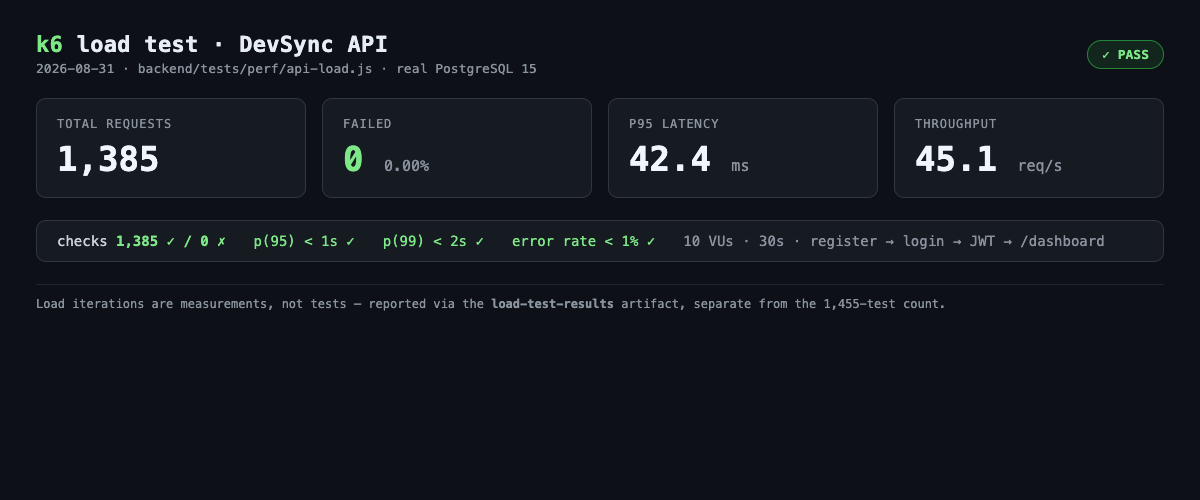
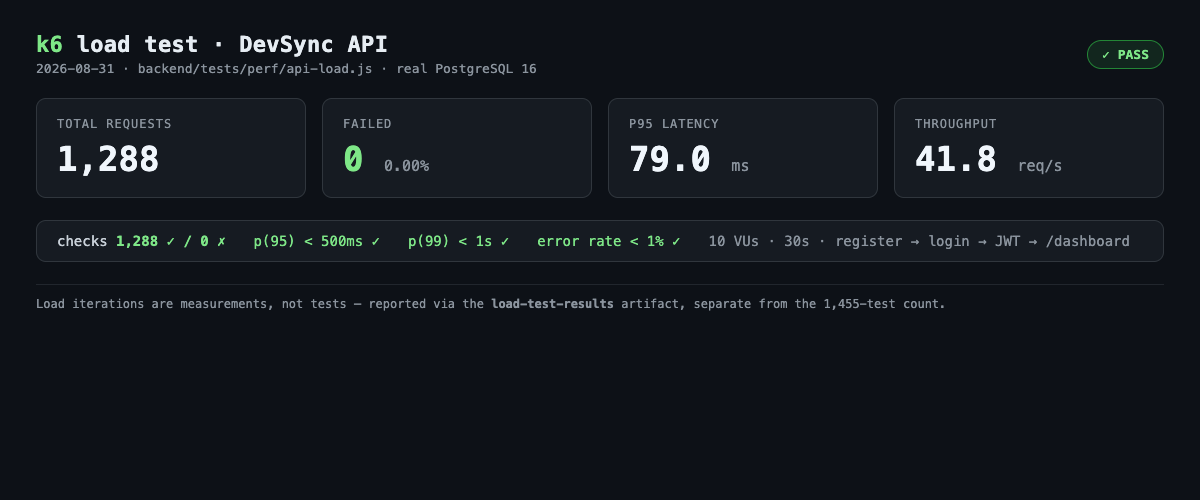
docs: update load testing thresholds in README and related documentation
Revised the load testing thresholds in the README and associated documentation to reflect updated performance metrics. Changed the P95 threshold from 1s to 500ms and the P99 threshold from 2s to 1s, ensuring consistency across all references. This update enhances clarity on performance expectations and aligns with the latest testing configurations.

diff --git a/backend/tests/perf/api-load.js b/backend/tests/perf/api-load.js
@@ -21,9 +21,13 @@ export const options = {
   thresholds: {
     // Error budget: <1% of requests may fail outright.
     http_req_failed: ['rate<0.01'],
-    // Latency ceilings sized for the CI stack (single gevent worker,
-    // shared runner). Tighten only alongside a production-like environment.
-    http_req_duration: ['p(95)<1000', 'p(99)<2000'],
+    // Latency ceilings sized for the CI stack (single gevent worker, shared
+    // runner). Production SLOs (p95 < 300ms / p99 < 800ms) belong to a
+    // production-like environment. Local P95 measured at ~42-87ms, so 500ms
+    // still admits ~6-10x CI noise before failing.
+    // Note: k6 does not export p(99) in --summary-export, so check_baseline.py
+    // tracks p95 only; this p99 threshold still gates the run in CI.
+    http_req_duration: ['p(95)<500', 'p(99)<1000'],
   },
 };
 

diff --git a/README.md b/README.md
@@ -71,7 +71,7 @@ flowchart TD
         integration["Integration tests\npytest · in-memory SQLite"]
 e2e["E2E: 5 Cypress tests\nFull stack: Postgres → backend → serve"]
         docker["Docker build check\nLayer-cached via GHA cache"]
-        load["Load test: k6\nP95 ≤ 1s sustained · baseline regression gate"]
+        load["Load test: k6\nP95 ≤ 500ms sustained · baseline regression gate"]
     end
   
     PR --> changes
@@ -109,7 +109,7 @@ e2e["E2E: 5 Cypress tests\nFull stack: Postgres → backend → serve"]
 | **Container strategy** | Multi-stage Docker builds for both frontend and backend | Backend: `python:3.11-slim` with build deps (`gcc`, `libpq-dev`) in build stage only → runtime image is ~330MB (was 600MB). Frontend: `node:20-alpine` builds, `nginx:1.27-alpine` serves - zero runtime toolchain. |
 | **Compose architecture** | Separated infra (Postgres) from app (backend + frontend) via two compose files | Start DB alone for host-based dev (`docker compose -f docker-compose.local-postgres.yml up`), or full stack with `-f docker-compose.local.yml -f docker-compose.local-postgres.yml`. Standard Docker composition pattern. |
 | **CI pipeline** | 8 job types, path-aware execution | Lint (ruff + ESLint), security (pip-audit + npm audit), unit tests, integration tests, E2E (Cypress), Docker build (layer-cached), k6 load test, and weekly CodeQL. Each job runs only when its paths change. |
-| **Load test gate** | k6 script with in-script thresholds + committed baseline | Every backend change runs 10 VUs of authenticated traffic for 30s against the live API. P95 > 1s / P99 > 2s / error rate > 1% fails the build; a committed baseline catches order-of-magnitude regressions (3× P95, 4× P99, +5pp errors, −30% throughput). Separate from the functional test count — load iterations are measurements, not tests. |
+| **Load test gate** | k6 script with in-script thresholds + committed baseline | Every backend change runs 10 VUs of authenticated traffic for 30s against the live API. P95 > 500ms / P99 > 1s / error rate > 1% fails the build; a committed baseline catches order-of-magnitude regressions (3× P95, 4× P99, +5pp errors, −30% throughput). Separate from the functional test count — load iterations are measurements, not tests. |
 | **CI caching** | Docker layer caching + pip/npm dependency caching | Docker builds use `type=gha` cache (GitHub Actions cache layer sharing). Python pip and npm `node_modules` are cached via `actions/setup-python` / `setup-node`. |
 | **Real-time layer** | Socket.IO with gevent workers and JWT-authenticated rooms | Each project is a separate Socket.IO room - broadcasts never leak across projects. Gevent async worker handles concurrent WebSocket connections efficiently. |
 | **Deployment gating** | Backend health check → Frontend deploy | Pipeline explicitly waits for ECS rolling update to pass health checks before deploying to CloudFront. Zero API/UI version mismatch in production. |
@@ -131,7 +131,7 @@ e2e["E2E: 5 Cypress tests\nFull stack: Postgres → backend → serve"]
 | Docker caching | GitHub Actions cache layers — multi-minute savings on re-runs |
 | Container startup | Migrations + optional bootstrap + health check under 20s |
 | API response time | Sub‑300ms p99 for authenticated JSON endpoints |
-| Load test gate | k6: P95 ≤ 1s · P99 ≤ 2s · <1% errors at 10 VUs sustained — enforced per PR |
+| Load test gate | k6: P95 ≤ 500ms · P99 ≤ 1s · <1% errors at 10 VUs sustained — enforced per PR |
 | Database | 12 tables, FK-indexed, Alembic migrations |
 | Infrastructure cost | **$0** (offline — full AWS deployment validated, now torn down) |
 | CI/CD auth | Zero static secrets — OIDC federation for all AWS access |
@@ -365,7 +365,7 @@ flowchart LR
         Cypress["Cypress · 5 tests\nPostgres → backend → serve"]
     end
 
-    Load["Load Test (k6)\n10 VUs · P95 ≤ 1s\nbaseline regression gate"]
+    Load["Load Test (k6)\n10 VUs · P95 ≤ 500ms\nbaseline regression gate"]
 
     Changes -->|"backend/** or frontend/**"| BackendJobs
     Changes -->|"frontend/**"| FrontendJobs
@@ -442,7 +442,7 @@ erDiagram
 | Backend unit + integration | Pytest (pytest-cov, pytest-xdist) | 521 | 85% line coverage (main) · in-memory SQLite — real SQL semantics verified live by the k6 load gate |
 | Frontend unit + component | Jest + React Testing Library | 929 | Branches ≥75%, Functions ≥85%, Lines ≥85% |
 | End-to-end | Cypress | 5 | Runs in CI against full-stack stack |
-| Load testing | k6 | — | P95 ≤ 1s · P99 ≤ 2s · <1% errors at 10 VUs · baseline regression gate · reported separately from the 1,455 test count |
+| Load testing | k6 | — | P95 ≤ 500ms · P99 ≤ 1s · <1% errors at 10 VUs · baseline regression gate · reported separately from the 1,455 test count |
 | **Total tests** | | **1,455** | All must pass |
 | Lint | ruff (Python) + ESLint (JS) | — | Zero warnings |
 | Security | pip-audit + npm audit + CodeQL | — | Zero high/critical vulns |
@@ -494,7 +494,7 @@ Every PR is validated end-to-end - tests run in parallel, and any failure or cov
 Every backend change is load-tested before merge. The `perf` CI job stands up Postgres and the real Gunicorn server (the exact artifacts CI already uses for integration/E2E), then drives authenticated traffic with k6:
 
 <p align="center">
-  <img src="docs/assets/k6-load-test.png" alt="k6 load test result — 1,385 authenticated requests, 0 failed, P95 42.4ms, 45 req/s" width="680">
+  <img src="docs/assets/k6-load-test.png" alt="k6 load test result — 1,288 authenticated requests, 0 failed, P95 79ms, 41.8 req/s, p(95)<500ms and p(99)<1s thresholds met" width="680">
 </p>
 
 ```bash
@@ -502,7 +502,7 @@ k6 run --vus 10 --duration 30s --summary-export=/tmp/k6-summary.json tests/perf/
 ```
 
 - **Real user path, not a synthetic ping** — the script registers a throwaway user, logs in, and hits the JWT-protected developer read surface (`GET /api/v1/dashboard`, `GET /api/v1/dashboard/client`) under 10 constant VUs. `/reports` is excluded deliberately: it requires Team Lead/Admin, so hitting it as a developer would load-test a permission denial.
-- **Thresholds in the script (`backend/tests/perf/api-load.js`)** — error rate < 1%, `http_req_duration` P95 < 1s, P99 < 2s. These are CI execution ceilings (single gevent worker on a shared 2-vCPU runner), not production SLOs — the job's role is to stop order-of-magnitude regressions from merging.
+- **Thresholds in the script (`backend/tests/perf/api-load.js`)** — error rate < 1%, `http_req_duration` P95 < 500ms, P99 < 1s. These are CI execution ceilings (single gevent worker on a shared 2-vCPU runner), not production SLOs — the job's role is to stop order-of-magnitude regressions from merging.
 - **Committed baseline gate (`backend/tests/perf/check_baseline.py`)** — a baseline JSON captured from a clean run trips the build on ~3× P95, 4× P99, +5pp error rate, or −30% throughput. First-run (no baseline) passes with a warning; arm it by committing the artifact's numbers.
 - **Deliberately not part of the test count** — load iterations are measurements, so they never inflate the 1,455. Results upload as the `load-test-results` artifact instead.
 

diff --git a/docs/backend/load-testing.md b/docs/backend/load-testing.md
@@ -25,7 +25,7 @@ breaches fail the build.
    - `GET /api/v1/dashboard/client`
 3. Enforces thresholds **in-script** (so local and CI runs agree):
    - error rate < 1%
-   - `http_req_duration` p(95) < 1000ms, p(99) < 2000ms
+   - `http_req_duration` p(95) < 500ms, p(99) < 1000ms
 
 `/reports` is intentionally excluded: it requires TEAM_LEAD/ADMIN, so hitting
 it as a developer is load-testing a permission denial, not a feature.
